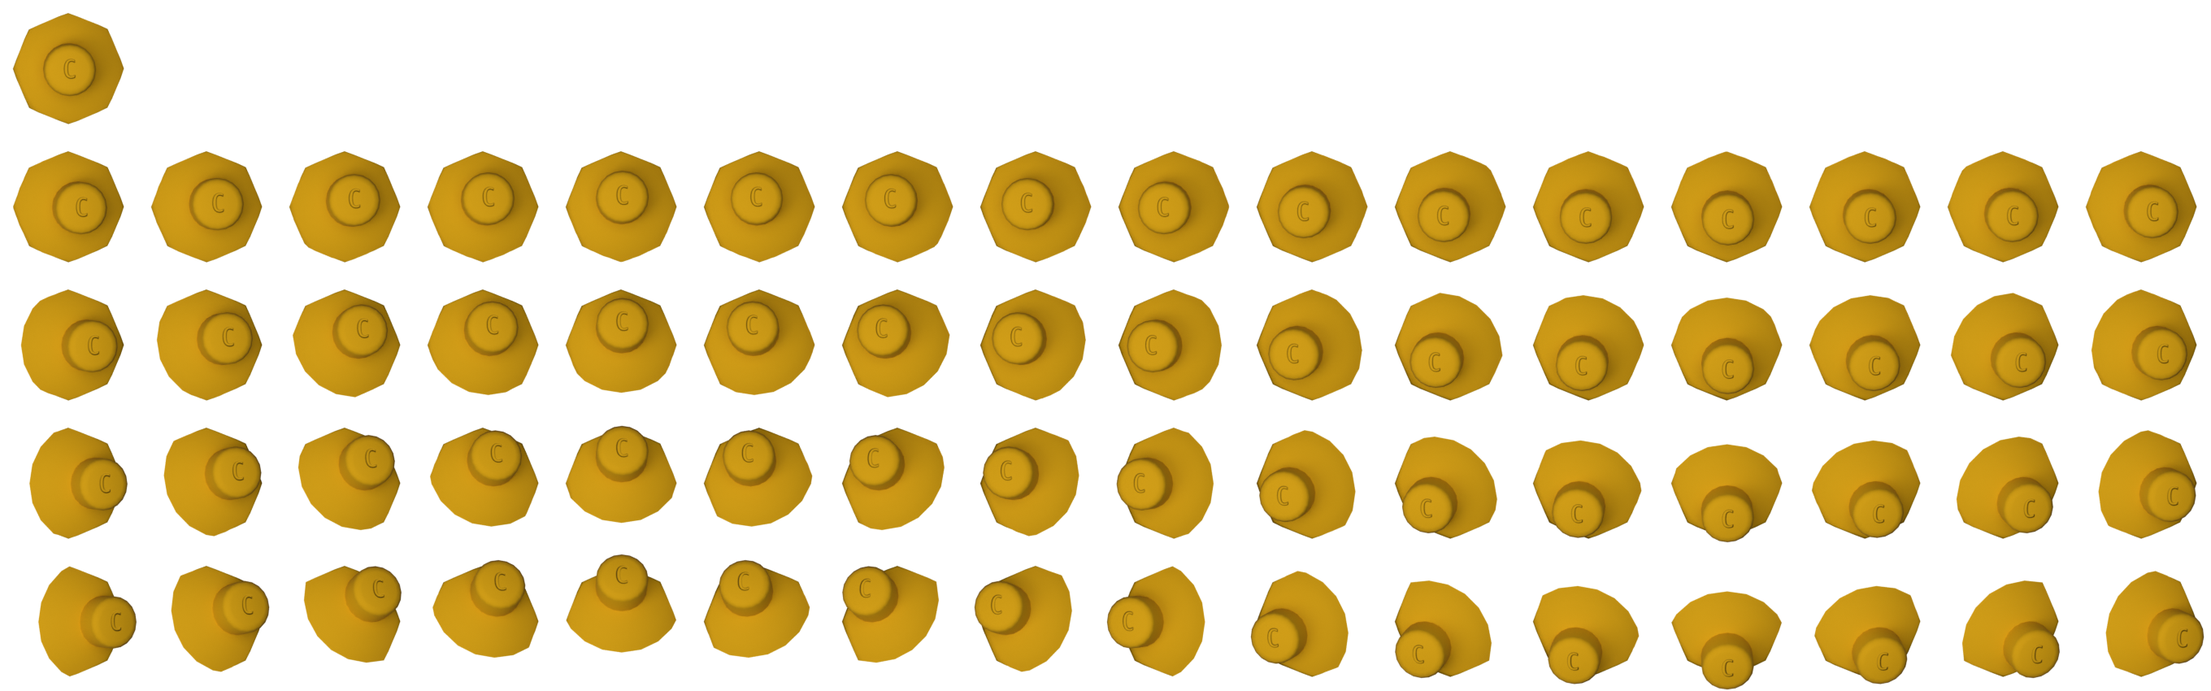
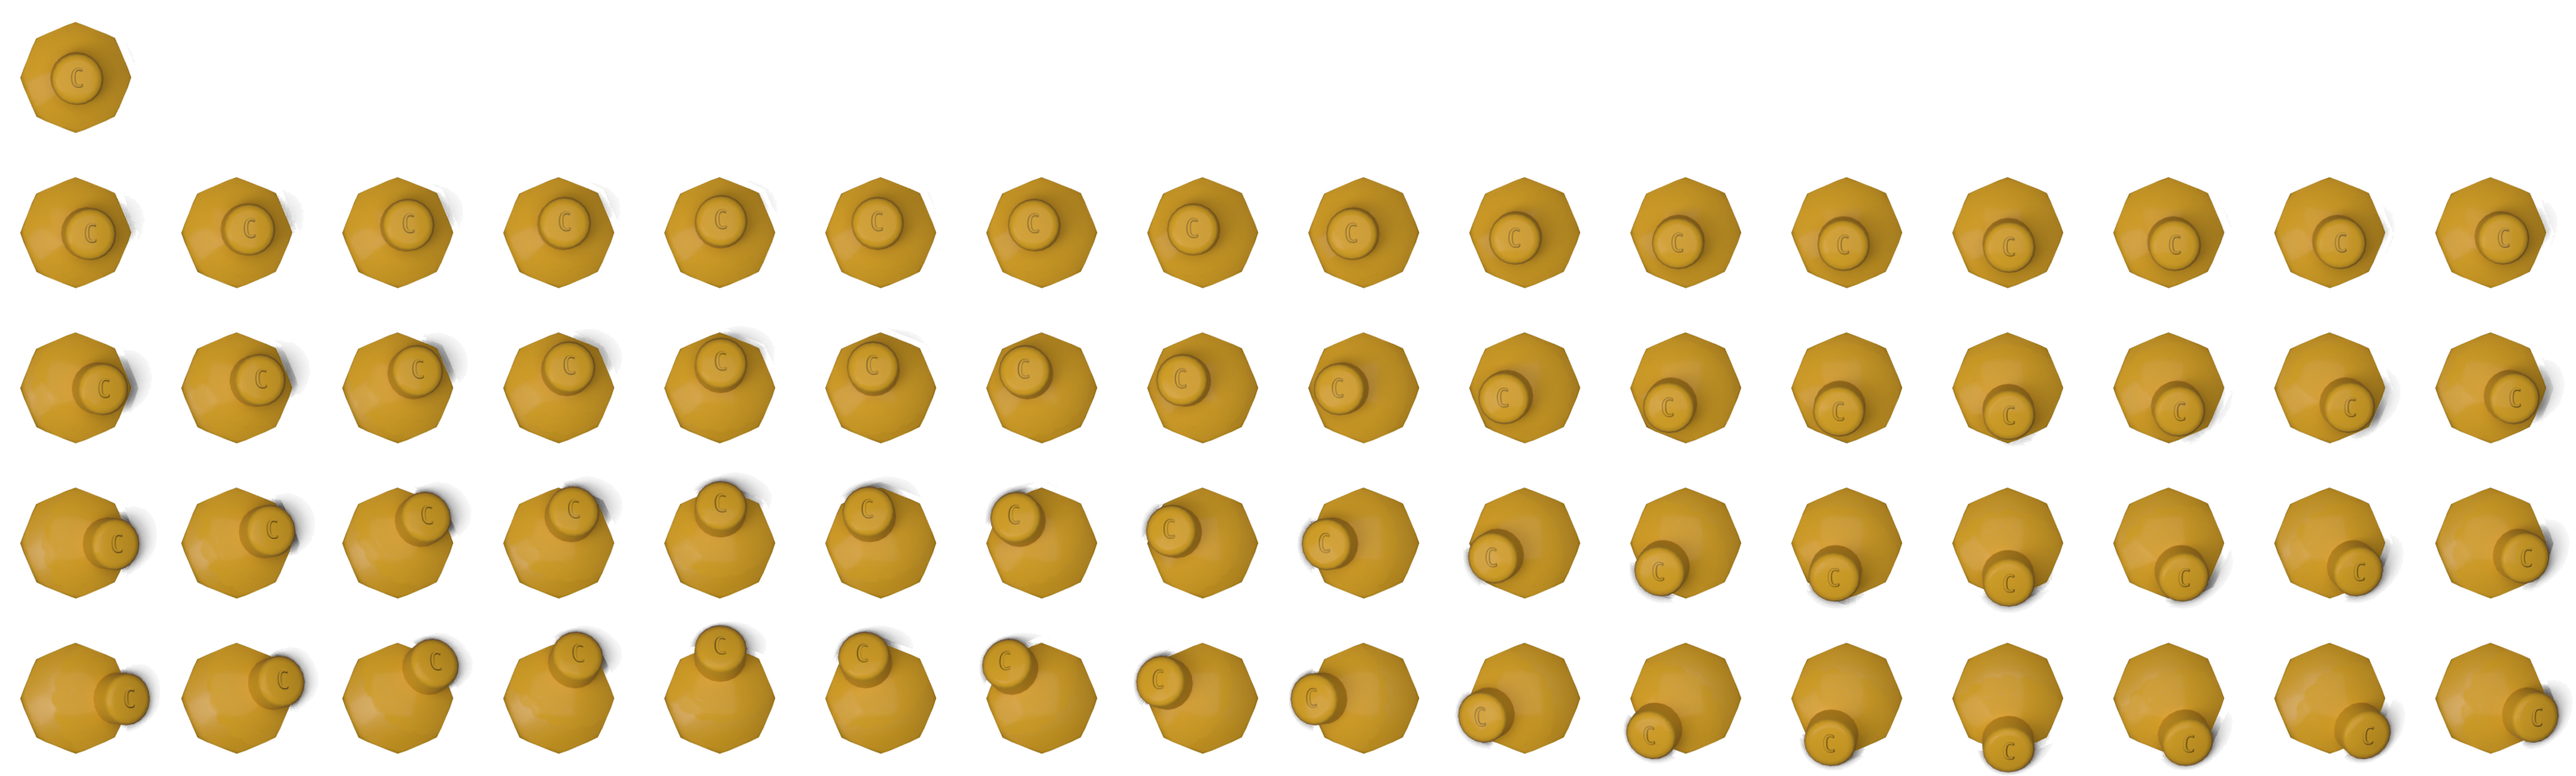
Settings: sticks like a real GameCube stick, shiny, with no wiggle
- The dome: a GameCube stick cap has a dome under its pad that fills the gate and
  rolls in place on the stick's pivot. Each bone now turns on the centre of that
  dome (found by fitting a sphere to the model's cap), and the dome, which the
  model only has the visible top of, is completed under the shell, so a tilted
  stick fills its gate with grey (or yellow) plastic instead of showing a hole.
- Shadows: the rest of the controller is a shadow catcher in the stick frames, so
  each cap casts its shadow on the gate and shell as it moves; faint shadow is
  cleared and frame edges are faded, so no shadow ends in a straight line.
- Shine: the sticks have their own plastic with a stronger highlight and a thin
  clear coat, in the frames and in the still picture (art/top.png re-rendered).
- No wiggle: where a cap's top is for any stick position is computed from the
  render's geometry (the fitted camera, the dome's centre, the 25 degree tilt), and
  the nearest frame is moved so its top is exactly there; the frame drawn is kept
  until another is clearly nearer. The red input ring follows the cap's top.
- Sizes: a frame is drawn at its sheet's own size (so a sheet rendered again can
  never be drawn at another size); a stick barely moved matches the still picture.
- art/pack_sticks.ps1 packs the frames (it reproduces the sheets byte for byte).

diff --git a/tools/padconfig/art/render_top.py b/tools/padconfig/art/render_top.py
@@ -83,6 +83,19 @@ for o in bpy.context.scene.objects:
         caps["c"] = o
 assert set(caps) == {"main", "c"}, caps
 
+# A little shine on the sticks (their own copy of the plastic): a stronger highlight and a thin clear coat, so the light
+# runs over a cap as it tilts.
+SHINE = {"Specular IOR Level": 0.6, "Coat Weight": 0.25, "Coat Roughness": 0.15}
+def shiny(material):
+    for name, value in SHINE.items():
+        material.node_tree.nodes["Principled BSDF"].inputs[name].default_value = value
+    return material
+stick_mat = shiny(mat.copy())
+stick_mat.name = "Stick"
+for cap in caps.values():
+    cap.data.materials.clear()
+    cap.data.materials.append(stick_mat)
+
 scene = bpy.context.scene
 scene.render.engine = 'CYCLES'
 scene.cycles.samples = samples
@@ -147,13 +160,63 @@ def render(name, hide=(), holdout=()):
 
 others = [o for o in scene.objects if o.type == 'MESH' and o not in caps.values()]
 # ---- the sticks as a virtual controller: a bone at each stick's root, the cap tilted on it ----------------------------
-# "sticks": each cap alone (the rest held out, so the shell hides what tilts under it), turned on a bone whose head is
-# the stick's root, PIVOT_DEPTH units under the cap, as a GameCube stick moves: inside an octagonal gate with its
+# "sticks": each cap alone, turned on a bone whose head is
+# the stick's root: the centre of the dome under the cap (the part that fills the gate; a sphere round the pivot, so it
+# rolls in place as on a real controller and the gate never opens; found by fitting a sphere to it), as a GameCube
+# stick moves: inside an octagonal gate with its
 # corners (the notches) at the 4 directions and the 4 diagonals, up to MOST_TILT degrees at a notch (the sticks' parts
 # allow about +-30). Rendered for the middle and for RINGS distances (1/RINGS .. 1 of the way to the gate) in each of
 # DIRECTIONS directions (every 22.5 degrees from the right, anticlockwise: the notches and the gate's edges between them),
-# only in the area round the stick: sticks/<main|c>_0.png (the middle) and sticks/<main|c>_<ring>_<direction>.png.
-DIRECTIONS, RINGS, MOST_TILT, PIVOT_DEPTH = 16, 4, 25.0, 4.0
+# only in the area round the stick: sticks/<main|c>_0.png (the middle) and sticks/<main|c>_<ring>_<direction>.png. The
+# rest of the controller is a shadow catcher: not drawn, but it hides what tilts under the shell, and the cap's shadow
+# on it is in the frame (drawn over the body without caps, the stick casts its shadow as it moves).
+# "sticks-test": a few of those frames only.
+DIRECTIONS, RINGS, MOST_TILT = 16, 4, 25.0
+
+def dome_centre(cap):
+    # The centre of the sphere the cap's dome lies on: a least-squares fit to the outer surface of its lowest quarter.
+    import numpy as np
+    pts = np.array([list(cap.matrix_world @ v.co) for v in cap.data.vertices])
+    lo, hi = pts[:, 2].min(), pts[:, 2].max()
+    mid = pts.mean(axis=0)
+    r = np.hypot(pts[:, 0] - mid[0], pts[:, 1] - mid[1])
+    sel = (pts[:, 2] < lo + 0.25 * (hi - lo)) & (r > 0.5 * r.max())
+    A = np.c_[2 * pts[sel], np.ones(int(sel.sum()))]
+    sol = np.linalg.lstsq(A, (pts[sel] ** 2).sum(axis=1), rcond=None)[0]
+    centre = Vector(sol[:3])
+    return centre, math.sqrt(sol[3] + centre.length_squared), lo
+
+# The rest of each dome, which the model leaves out: a real stick's dome reaches on under the shell, so a tilted stick
+# still fills its gate. The colour of each cap's plastic (sRGB 0..255) and how far down the dome goes (degrees from
+# its top).
+DOME_COLOUR = {"main": (178, 189, 198), "c": (236, 174, 12)}
+DOME_REACH = 72.0
+
+def complete_dome(key, root, radius, cap_bottom):
+    import bmesh
+    me = bpy.data.meshes.new("dome_" + key)
+    bm = bmesh.new()
+    bmesh.ops.create_uvsphere(bm, u_segments=96, v_segments=64, radius=radius - 0.03)
+    lowest = root.z + (radius - 0.03) * math.cos(math.radians(DOME_REACH)) - root.z
+    keep_top = cap_bottom + 0.8 - root.z  # tucked up under the model's own dome (just inside it): no seam between them
+    bmesh.ops.delete(bm, geom=[v for v in bm.verts if v.co.z > keep_top or v.co.z < lowest], context="VERTS")
+    bm.to_mesh(me)
+    bm.free()
+    dome = bpy.data.objects.new("dome_" + key, me)
+    scene.collection.objects.link(dome)
+    dome.location = root
+    for p in me.polygons:
+        p.use_smooth = True
+    mat = bpy.data.materials.new("Dome_" + key)
+    mat.use_nodes = True
+    b = mat.node_tree.nodes["Principled BSDF"]
+    srgb = [c / 255.0 for c in DOME_COLOUR[key]]
+    linear = [c / 12.92 if c <= 0.04045 else ((c + 0.055) / 1.055) ** 2.4 for c in srgb]
+    b.inputs["Base Color"].default_value = (*linear, 1.0)
+    b.inputs["Roughness"].default_value = 0.45
+    me.materials.append(shiny(mat))
+    bpy.context.view_layer.update()  # its matrix_world, before it is parented
+    return dome
 
 def gate(angle):
     # How far the octagonal gate lets the stick go in a direction, as a fraction of the way to a notch.
@@ -169,20 +232,26 @@ def stick_frames():
     rig = bpy.data.objects.new("Sticks", arm_data)
     scene.collection.objects.link(rig)
     bpy.context.view_layer.objects.active = rig
+    domes_wanted = {}
     bpy.ops.object.mode_set(mode='EDIT')
     for key, cap in caps.items():
-        lo = min((cap.matrix_world @ v.co).z for v in cap.data.vertices)
-        c = centre(cap)
+        root, radius, bottom = dome_centre(cap)
+        domes_wanted[key] = (root.copy(), radius, bottom)
         bone = arm_data.edit_bones.new(key)
-        bone.head = (c.x, c.y, lo - PIVOT_DEPTH)  # the stick's root
-        bone.tail = (c.x, c.y, lo)
+        bone.head = root  # the stick's root
+        bone.tail = root + Vector((0.0, 0.0, 4.0))
+        print("ROOT", key, tuple(round(v, 2) for v in root))
     bpy.ops.object.mode_set(mode='OBJECT')
+    domes = {}
     for key, cap in caps.items():
-        world = cap.matrix_world.copy()
-        cap.parent = rig
-        cap.parent_type = 'BONE'
-        cap.parent_bone = key
-        cap.matrix_world = world  # stays where it is; follows the bone from now on
+        dome = complete_dome(key, *domes_wanted[key])
+        domes[key] = dome
+        for part in (cap, dome):
+            world = part.matrix_world.copy()
+            part.parent = rig
+            part.parent_type = 'BONE'
+            part.parent_bone = key
+            part.matrix_world = world  # stays where it is; follows the bone from now on
     rig.hide_render = True
     os.makedirs(os.path.join(out, "sticks"), exist_ok=True)
     scene.render.use_border = True
@@ -193,8 +262,9 @@ def stick_frames():
         scene.render.border_min_y, scene.render.border_max_y = 1.0 - y1, 1.0 - y0
         for o in scene.objects:
             if o.type == 'MESH':
-                o.hide_render = o in caps.values() and o is not cap
-                o.is_holdout = o in others
+                o.hide_render = (o in caps.values() and o is not cap) or (o in domes.values() and o is not domes[key])
+                o.is_holdout = False
+                o.is_shadow_catcher = o in others and o not in domes.values()
         pose = rig.pose.bones[key]
         pose.rotation_mode = 'QUATERNION'
         rest = rig.data.bones[key].matrix_local.to_3x3()
@@ -203,6 +273,8 @@ def stick_frames():
             for direction in range(DIRECTIONS):
                 angle = math.radians(direction * 360.0 / DIRECTIONS)
                 poses.append(("%s_%d_%d.png" % (key, ring, direction), angle, ring / RINGS * gate(angle)))
+        if only == "sticks-test":
+            poses = [p for p in poses if p[0] in ("%s_0.png" % key, "%s_4_0.png" % key, "%s_4_2.png" % key, "%s_4_6.png" % key, "%s_2_12.png" % key)]
         for name, angle, length in poses:
             if length > 0.0:
                 # Pushed that way the stick's top leans that way: a turn about the axis across it.
@@ -218,7 +290,7 @@ def stick_frames():
     print("WROTE sticks")
 if only in ("all", "full"):
     render("top_full.png")
-if only == "sticks":
+if only in ("sticks", "sticks-test"):
     stick_frames()
 if only in ("all", "layers"):
     render("top_body.png", hide=list(caps.values()))

diff --git a/tools/padconfig/controller_view.cpp b/tools/padconfig/controller_view.cpp
@@ -124,6 +124,33 @@ REAL gate_at(REAL angle) {
     return std::cos(kSector) / std::cos(off - kSector);
 }
 
+// The geometry the stick frames were rendered with (art/render_top.py): the camera of the picture from above (looking
+// straight down from kCameraZ over (kCameraX, kCameraY), kFocal pixels of focal length, the picture 1000 x 659), and
+// each stick's root (the centre of its dome, where its bone turns) and the height of its cap's top, in model units.
+// The cap turns up to kMostTilt degrees at a notch.
+constexpr REAL kCameraX = 0.08f, kCameraY = -4.19f, kCameraZ = 195.5f, kFocal = 19.35f * (195.5f - 22.0f);
+constexpr REAL kMostTilt = 25.0f;
+struct StickGeometry {
+    REAL root_x, root_y, root_z, top_z;
+};
+constexpr StickGeometry kStickGeometry[] = {{-15.0f, 0.0f, 14.68f, 23.92f}, {7.57f, -11.25f, 13.2f, 21.23f}};
+
+// Where a stick's cap top is in the picture from above (its pixels) with the stick at (x, y) in its gate: the top turned
+// on the root towards (x, y) by kMostTilt degrees for each 1 of the way, then seen by the camera.
+PointF stick_top(int stick, REAL x, REAL y) {
+    const StickGeometry& s = kStickGeometry[stick];
+    const REAL h = s.top_z - s.root_z, length = std::sqrt(x * x + y * y);
+    REAL px = 0.0f, py = 0.0f, pz = h;
+    if (length > 0.0f) {
+        const REAL turn = kMostTilt * length * kPi / 180.0f;
+        px = x / length * h * std::sin(turn);
+        py = y / length * h * std::sin(turn);
+        pz = h * std::cos(turn);
+    }
+    const REAL depth = kCameraZ - (s.root_z + pz);
+    return PointF(500.0f + (s.root_x + px - kCameraX) * kFocal / depth, 329.5f - (s.root_y + py - kCameraY) * kFocal / depth);
+}
+
 // Where things are, in view units: the label columns `f` times their normal width (and the labels f times their normal
 // size) on both sides of the pictures, the whole scaled by `scale` to the area and centred across it.
 struct Geometry {
@@ -223,33 +250,61 @@ struct Painter {
     }
 
     // A stick cap as the stick is held (x, y: in its gate, stick_in_gate()): the frame of its sheet nearest that
-    // position, moved by what is left between the two (the cap's top moves about in proportion), so that it follows
-    // the stick smoothly; with a red ring like a pressed button's round its top, stronger the further it is tilted.
-    void draw_cap(const CapArt& cap, float x, float y) {
+    // position, moved so that the cap's top is exactly where the stick puts it (computed from the render's geometry), so
+    // the top glides with the stick and never jumps when the frame changes; with a red ring like a pressed button's round
+    // its top, stronger the further it is tilted.
+    void draw_cap(const CapArt& cap, int index, float x, float y) {
         Bitmap* sheet = art(cap.id);
-        if (sheet == nullptr) return;
+        Bitmap* picture = art(101);
+        if (sheet == nullptr || picture == nullptr) return;
+        // The frame nearest the stick; the one drawn last is kept until another is clearly nearer, so a stick resting
+        // between two frames does not flicker from one to the other.
+        const auto frame_tilt = [](int ring, int direction, REAL& fx, REAL& fy) {
+            const REAL fa = direction * 2.0f * kPi / kStickDirections;
+            const REAL fl = static_cast<REAL>(ring) / kStickRings * gate_at(fa);
+            fx = fl * std::cos(fa);
+            fy = fl * std::sin(fa);
+        };
         const REAL length = std::sqrt(x * x + y * y);
-        const REAL angle = std::atan2(y, x);
         int ring = 0, direction = 0;
         if (length > 0.0f) {
+            const REAL angle = std::atan2(y, x);
             ring = std::clamp(static_cast<int>(std::lround(length / gate_at(angle) * kStickRings)), 0, kStickRings);
             direction = static_cast<int>(std::lround(angle / (2.0f * kPi) * kStickDirections));
             direction = ((direction % kStickDirections) + kStickDirections) % kStickDirections;
         }
-        // The frame's own position, and what is left over.
-        const REAL frame_angle = direction * 2.0f * kPi / kStickDirections;
-        const REAL frame_length = static_cast<REAL>(ring) / kStickRings * gate_at(frame_angle);
-        const REAL left_x = x - frame_length * std::cos(frame_angle), left_y = y - frame_length * std::sin(frame_angle);
+        static int last_ring[2] = {}, last_direction[2] = {};
+        {
+            REAL bx, by, lx, ly;
+            frame_tilt(ring, direction, bx, by);
+            frame_tilt(last_ring[index], last_direction[index], lx, ly);
+            const REAL best = std::hypot(x - bx, y - by), kept = std::hypot(x - lx, y - ly);
+            if (kept < best + 0.05f) {
+                ring = last_ring[index];
+                direction = last_direction[index];
+            }
+            if (ring == 0) direction = 0;
+            last_ring[index] = ring;
+            last_direction[index] = direction;
+        }
+        REAL fx, fy;
+        frame_tilt(ring, direction, fx, fy);
+        // Where the cap's top is in the picture's pixels: now, and in the frame drawn.
+        const PointF now = stick_top(index, x, y), in_frame = stick_top(index, fx, fy);
+        const REAL art_w = static_cast<REAL>(picture->GetWidth()), art_h = static_cast<REAL>(picture->GetHeight());
         const REAL cell_w = static_cast<REAL>(sheet->GetWidth()) / kStickDirections;
         const REAL cell_h = static_cast<REAL>(sheet->GetHeight()) / (kStickRings + 1);
         const RectF r = top_rect(m);
-        const REAL box_w = r.Width * cap.w, box_h = r.Height * cap.h, travel = box_w * cap.travel;
-        const RectF box(r.X + r.Width * cap.x + left_x * travel, r.Y + r.Height * cap.y - left_y * travel, box_w, box_h);
-        g.DrawImage(sheet, box, (ring == 0 ? 0 : direction) * cell_w, ring * cell_h, cell_w, cell_h, UnitPixel);
+        const REAL sx = r.Width / art_w, sy = r.Height / art_h;  // the picture's pixels to view units
+        // A frame's size from the sheet itself, at the picture's scale, so a sheet rendered again is never drawn at
+        // another size than its own.
+        const RectF box(r.X + (cap.x * art_w + now.X - in_frame.X) * sx, r.Y + (cap.y * art_h + now.Y - in_frame.Y) * sy,
+                        cell_w * sx, cell_h * sy);
+        g.DrawImage(sheet, box, direction * cell_w, ring * cell_h, cell_w, cell_h, UnitPixel);
         if (length == 0.0f) return;
         const REAL amount = std::min(1.0f, length);
-        const REAL radius = std::min(box_w, box_h) * 0.30f;
-        const PointF top(r.X + r.Width * cap.x + box_w / 2.0f + x * travel, r.Y + r.Height * cap.y + box_h / 2.0f - y * travel);
+        const REAL radius = r.Width * cap.top;
+        const PointF top(r.X + now.X * sx, r.Y + now.Y * sy);
         Pen ring_pen(Color(static_cast<BYTE>(90 + 120 * amount), 235, 45, 35), 3.0f);
         g.DrawEllipse(&ring_pen, top.X - radius, top.Y - radius, radius * 2.0f, radius * 2.0f);
     }
@@ -261,8 +316,8 @@ struct Painter {
         Bitmap* body = tilted ? art(kTopBodyId) : nullptr;
         if (body != nullptr) {
             g.DrawImage(body, top_rect(m));
-            draw_cap(kStickCaps[0], v.main_x, v.main_y);
-            draw_cap(kStickCaps[1], v.c_x, v.c_y);
+            draw_cap(kStickCaps[0], 0, v.main_x, v.main_y);
+            draw_cap(kStickCaps[1], 1, v.c_x, v.c_y);
         } else if (Bitmap* b = art(101)) {
             g.DrawImage(b, top_rect(m));
         }
